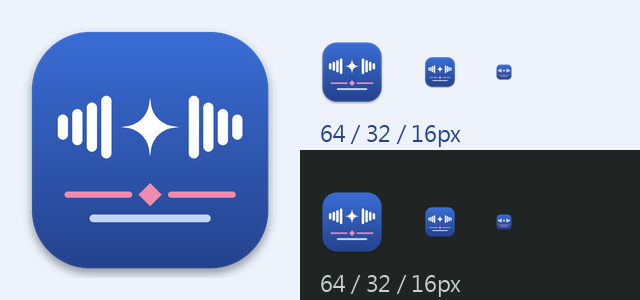
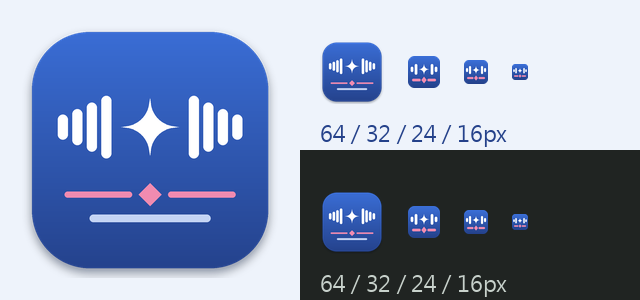
工作列圖示不再模糊：小尺寸另畫簡化版，視窗直接給工作列 24px 的圖示
Tk 只給 32px 大圖示，Win11 工作列（100% 是 24px）再自己縮，32→24 很糊；大版的細聲波、
陰影和台詞線縮到 24px 也會糊成一團。
- make_icon：16～40px 用以 24 格設計、對齊像素格的簡化版（底色填滿、每邊兩條粗聲波、加粗分隔線），
  ico 多了 20、40、96px
- ui：用 WM_SETICON 設定剛好工作列大小（Win11 24px×DPI）的大圖示和 16px 小圖示

diff --git a/tools/make_icon.py b/tools/make_icon.py
@@ -82,8 +82,50 @@ def icon():
     return img
 
 
+def icon_small(size):
+    """16～40px 用的簡化版：大版的細聲波、陰影和台詞線縮到這麼小會糊成一團。
+    以 24 格為單位設計（Win11 工作列 100% 縮放是 24px），聲波和分隔線都對齊像素格；
+    底色填滿整格、每邊兩條粗聲波、星星和分隔線加粗。先畫 16 倍大再縮小，邊緣才平滑。"""
+    k = 16
+    N = size * k
+    u = N / 24  # 一格
+
+    def U(*v):
+        return [x * u for x in v]
+
+    img = Image.new("RGBA", (N, N), (0, 0, 0, 0))
+    mask = Image.new("L", (N, N), 0)
+    ImageDraw.Draw(mask).rounded_rectangle((0, 0, N - 1, N - 1), 5 * u, fill=255)
+    g = Image.new("RGB", (1, N))
+    for y in range(N):
+        t = y / (N - 1)
+        g.putpixel((0, y), tuple(int(a + (b - a) * t) for a, b in zip(BLUE, BLUE_DARK)))
+    body = g.resize((N, N)).convert("RGBA")
+    body.putalpha(mask)
+    img.alpha_composite(body)
+    d = ImageDraw.Draw(img)
+    cy = 10
+    for x0, h in ((5, 8), (2, 4)):  # 由內往外：越外越矮
+        for x in (x0, 24 - x0 - 2):
+            d.rounded_rectangle(U(x, cy - h / 2, x + 2, cy + h / 2), u, fill=WHITE)
+    _star(d, 12 * u, cy * u, 4 * u, WHITE)
+    d.rounded_rectangle(U(3, 17, 9.5, 19), u, fill=PINK)
+    d.rounded_rectangle(U(14.5, 17, 21, 19), u, fill=PINK)
+    d.polygon([tuple(U(12, 15.5)), tuple(U(14, 18)), tuple(U(12, 20.5)), tuple(U(10, 18))], fill=PINK)
+    return img.resize((size, size), Image.LANCZOS)
+
+
+SMALL = (16, 20, 24, 32, 40)
+ICO_SIZES = (16, 20, 24, 32, 40, 48, 64, 96, 128, 256)
+
+
+def frames(img):
+    """每個尺寸各自的圖：小尺寸用簡化版，48px 以上用大版縮小。"""
+    return [icon_small(s) if s in SMALL else img.resize((s, s), Image.LANCZOS) for s in ICO_SIZES]
+
+
 def preview(img):
-    """256px 大圖，以及淺色、深色（工作列）底上的 64 / 32 / 16px。"""
+    """256px 大圖，以及淺色、深色（工作列）底上的 64 / 32 / 24 / 16px。"""
     font = None
     for f in ("msjh.ttc", "msjhbd.ttc"):
         try:
@@ -98,11 +140,11 @@ def preview(img):
     out.paste(big, (22, 22), big)
     for row_y, fg in ((40, (36, 65, 138)), (190, (200, 210, 204))):
         x = 320
-        for sz in (64, 32, 16):
-            small = img.resize((sz, sz), Image.LANCZOS)
+        for sz in (64, 32, 24, 16):
+            small = icon_small(sz) if sz in SMALL else img.resize((sz, sz), Image.LANCZOS)
             out.paste(small, (x, row_y + (64 - sz) // 2), small)
-            x += sz + 40
-        d.text((320, row_y + 78), "64 / 32 / 16px", fill=fg, font=font)
+            x += sz + 24
+        d.text((320, row_y + 78), "64 / 32 / 24 / 16px", fill=fg, font=font)
     return out
 
 
@@ -110,7 +152,8 @@ def main():
     os.makedirs(OUT, exist_ok=True)
     img = icon()
     img.resize((512, 512), Image.LANCZOS).save(os.path.join(OUT, "icon.png"))
-    img.save(os.path.join(OUT, "icon.ico"), sizes=[(16, 16), (24, 24), (32, 32), (48, 48), (64, 64), (128, 128), (256, 256)])
+    fr = frames(img)
+    fr[-1].save(os.path.join(OUT, "icon.ico"), sizes=[(s, s) for s in ICO_SIZES], append_images=fr[:-1])
     preview(img).save(os.path.join(OUT, "icon_preview.png"))
     print("已產生 assets/icon.ico、icon.png、icon_preview.png")
 

diff --git a/hoyotts/ui.py b/hoyotts/ui.py
@@ -147,6 +147,7 @@ class App:
                 root.iconbitmap(default=ico)
             except tk.TclError:
                 pass
+            set_window_icon(root, ico)
         root.geometry("1000x780")
         root.minsize(840, 640)
         _setup_style(root)
@@ -772,6 +773,30 @@ def run() -> None:
     root = tk.Tk()
     App(root)
     root.mainloop()
+
+
+def set_window_icon(root: tk.Tk, ico: str) -> None:
+    """Tk 只給 Windows 32px 的大圖示，Win11 工作列（100% 縮放是 24px）再自己縮，32→24 縮起來很糊。
+    直接從 .ico 挑剛好工作列大小的那張（ico 裡有為小尺寸另外畫的清楚版本）設成視窗的大圖示。"""
+    import ctypes
+    import sys
+
+    try:
+        root.update_idletasks()
+        hwnd = int(root.wm_frame(), 16)
+        u32 = ctypes.windll.user32
+        u32.LoadImageW.restype = ctypes.c_void_p
+        u32.SendMessageW.argtypes = [ctypes.c_void_p, ctypes.c_uint, ctypes.c_void_p, ctypes.c_void_p]
+        dpi = u32.GetDpiForWindow(ctypes.c_void_p(hwnd)) or 96
+        win11 = sys.getwindowsversion().build >= 22000
+        big = round((24 if win11 else 32) * dpi / 96)
+        small = round(16 * dpi / 96)
+        for which, size in ((1, big), (0, small)):  # ICON_BIG、ICON_SMALL
+            h = u32.LoadImageW(None, ico, 1, size, size, 0x10)  # IMAGE_ICON、LR_LOADFROMFILE
+            if h:
+                u32.SendMessageW(ctypes.c_void_p(hwnd), 0x80, ctypes.c_void_p(which), ctypes.c_void_p(h))  # WM_SETICON
+    except Exception:
+        pass
 
 
 def ctypes_dpi() -> None:
